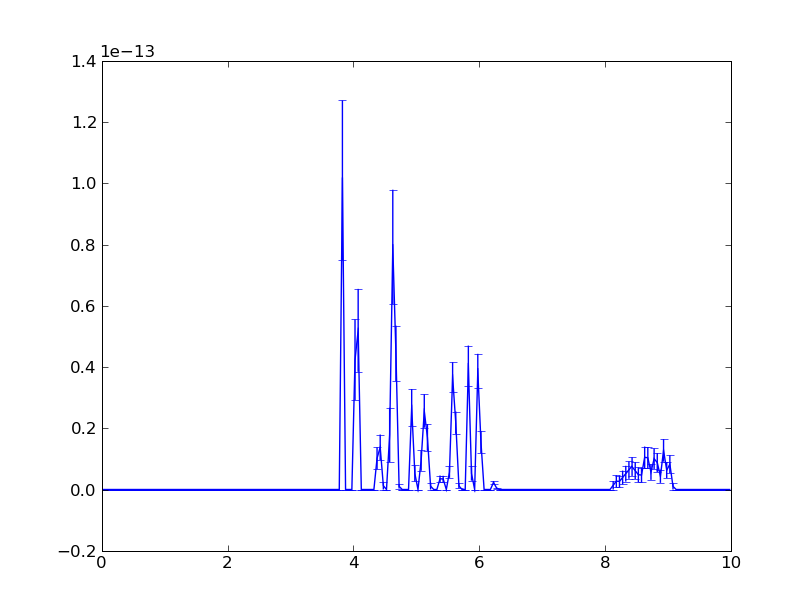
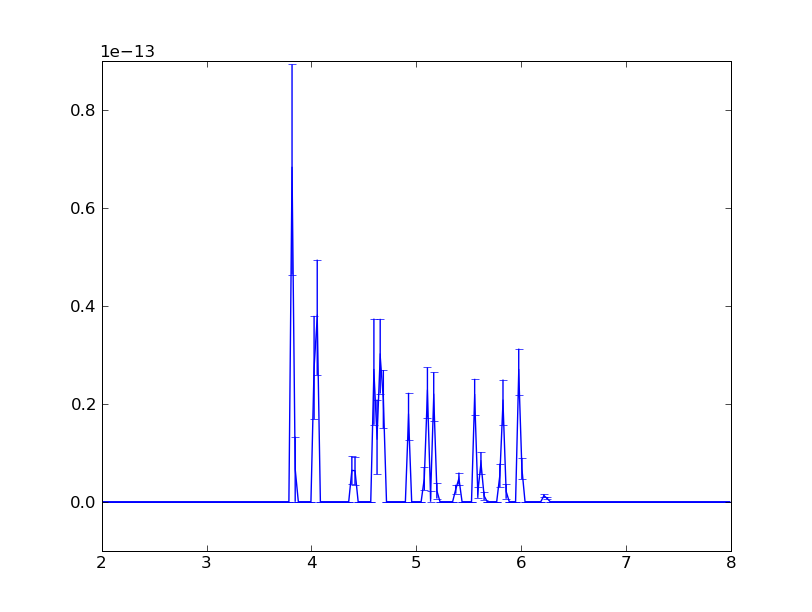
Changed configuration for example
git-svn-id: svn://danse.us/MCViNE/trunk@1009 bd03dbb6-ca95-436e-b6ad-03a95796df24

diff --git a/docs/sphinx/Tutorials-PowderKernel.rst b/docs/sphinx/Tutorials-PowderKernel.rst
@@ -644,10 +644,10 @@ files will look like:
             <component name="detector">
                 <property name="title">iq</property>
                 <property name="filename">iq.h5</property>
-                <property name="xwidth">0.5</property>
-                <property name="yheight">0.5</property>
-                <property name="qmin">0.0</property>
-                <property name="qmax">10.0</property>
+                <property name="xwidth">0.4</property>
+                <property name="yheight">0.4</property>
+                <property name="qmin">2.0</property>
+                <property name="qmax">8.0</property>
                 <property name="nq">200</property>
             </component>
 
